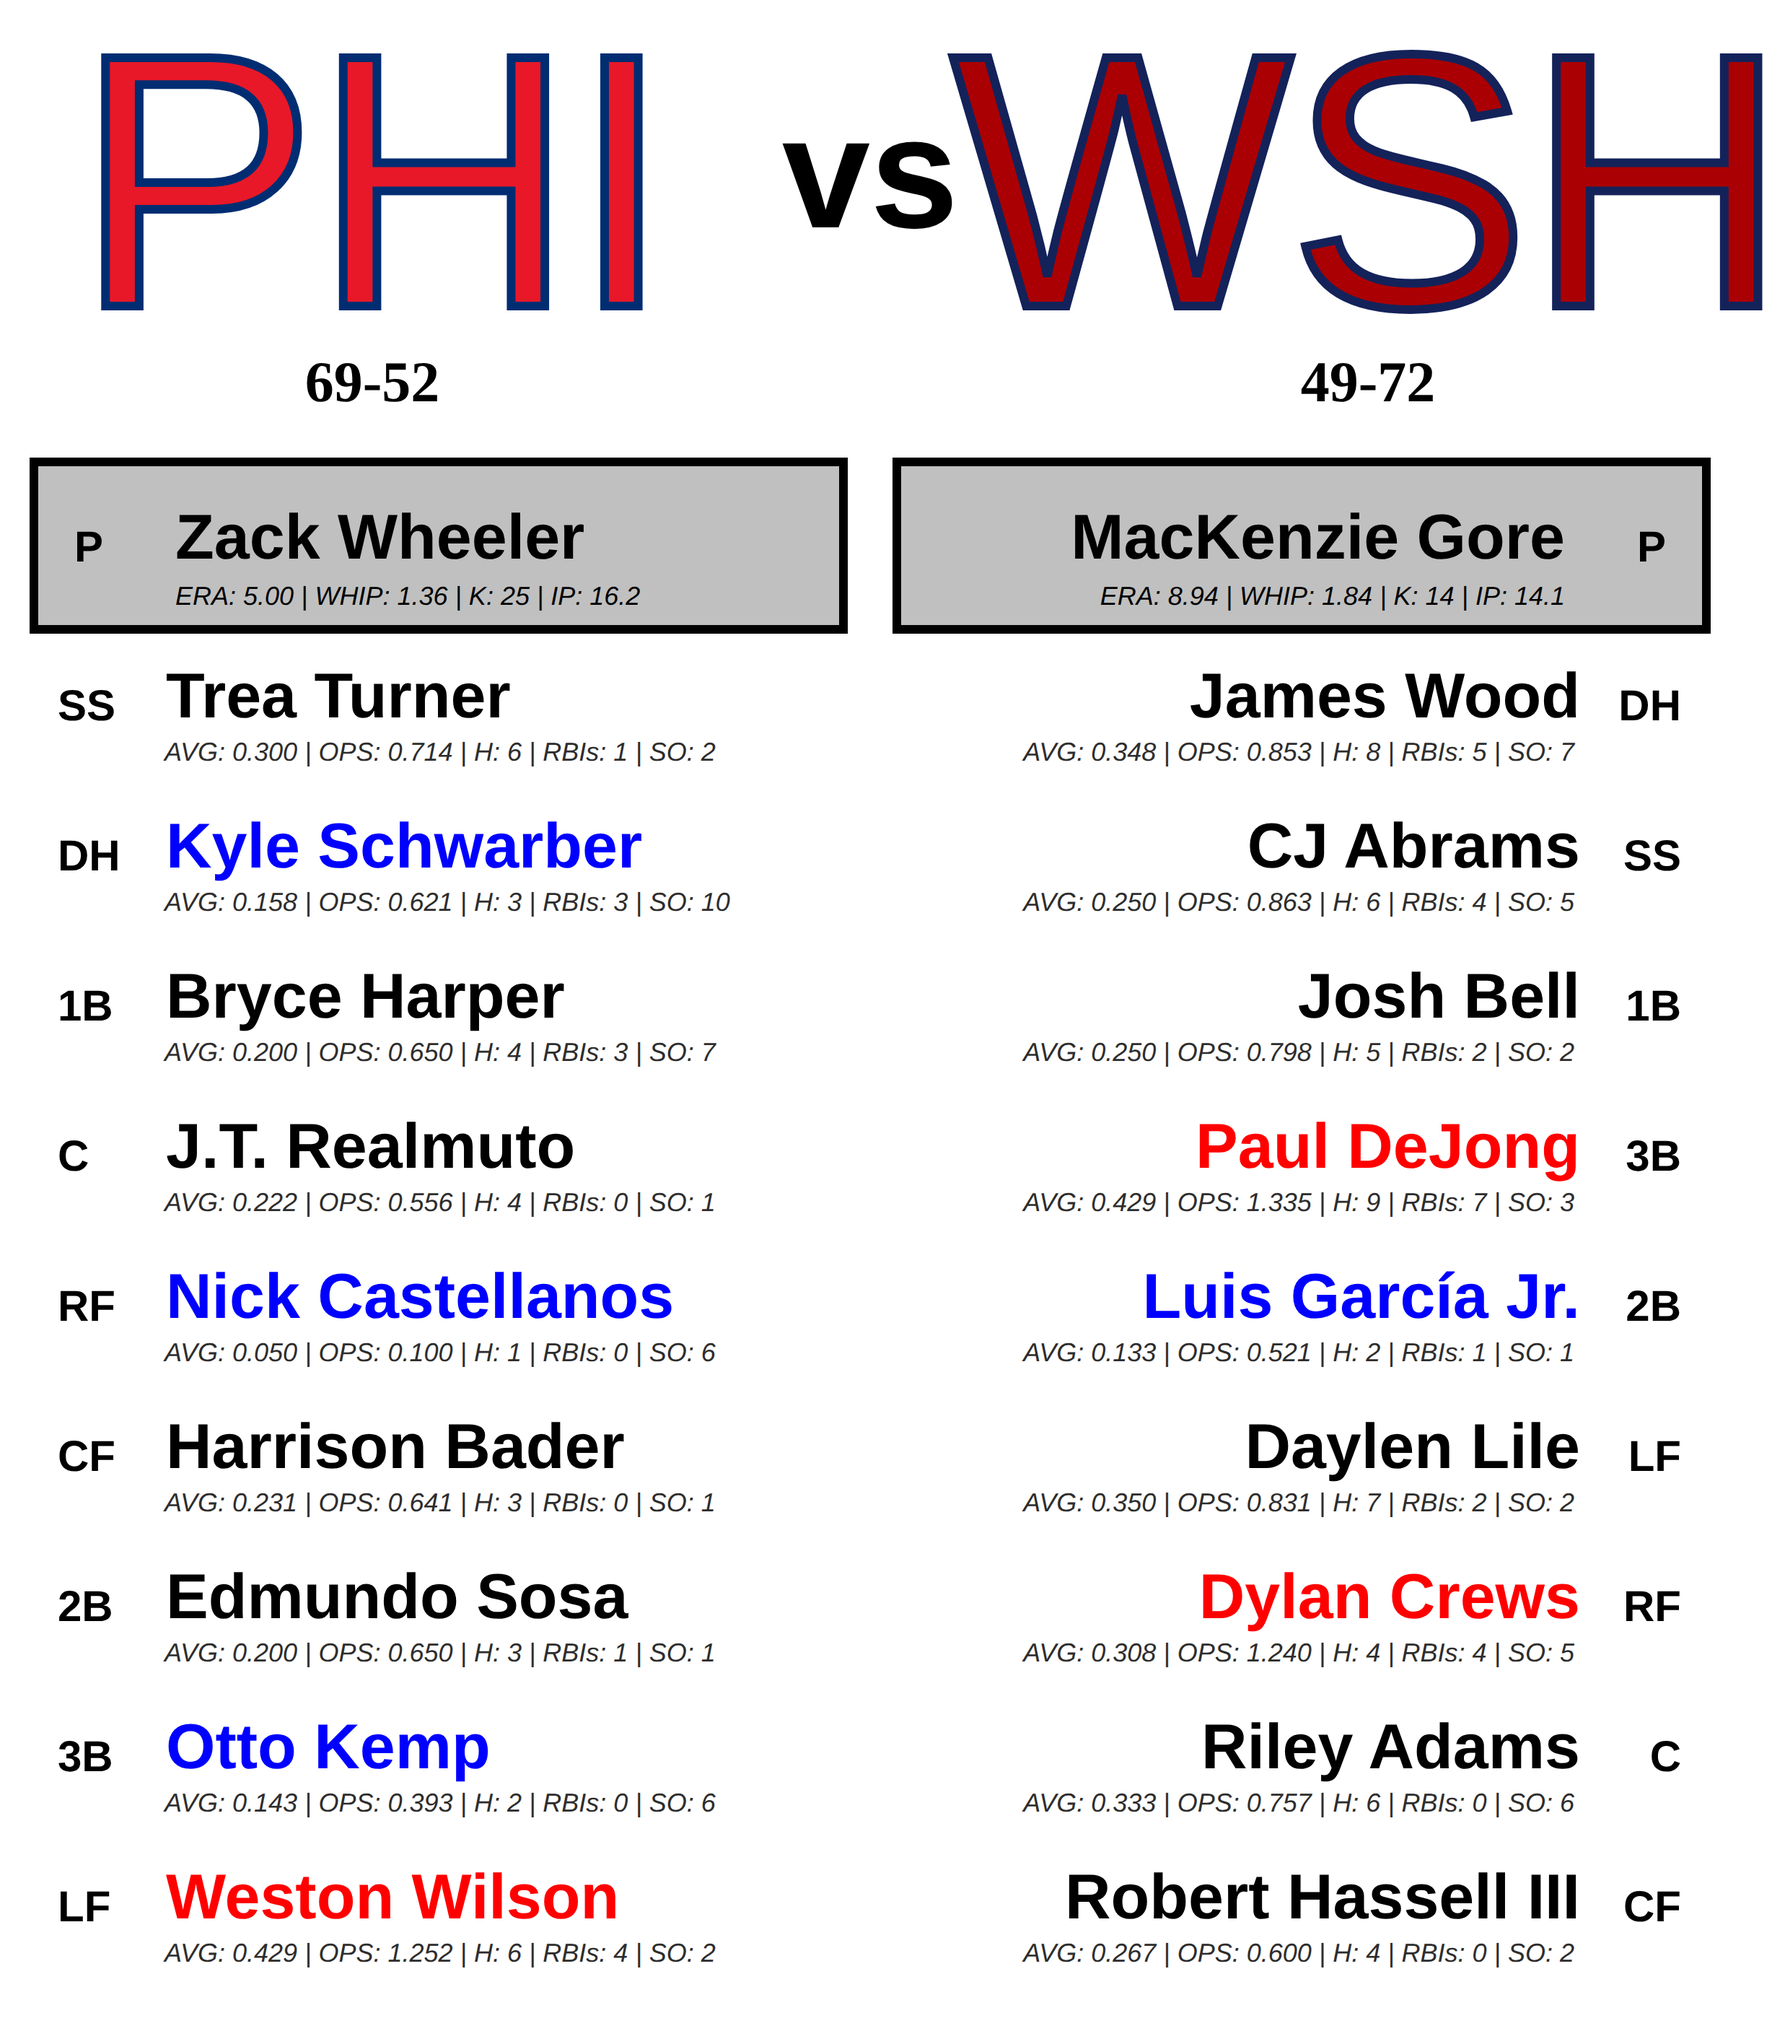
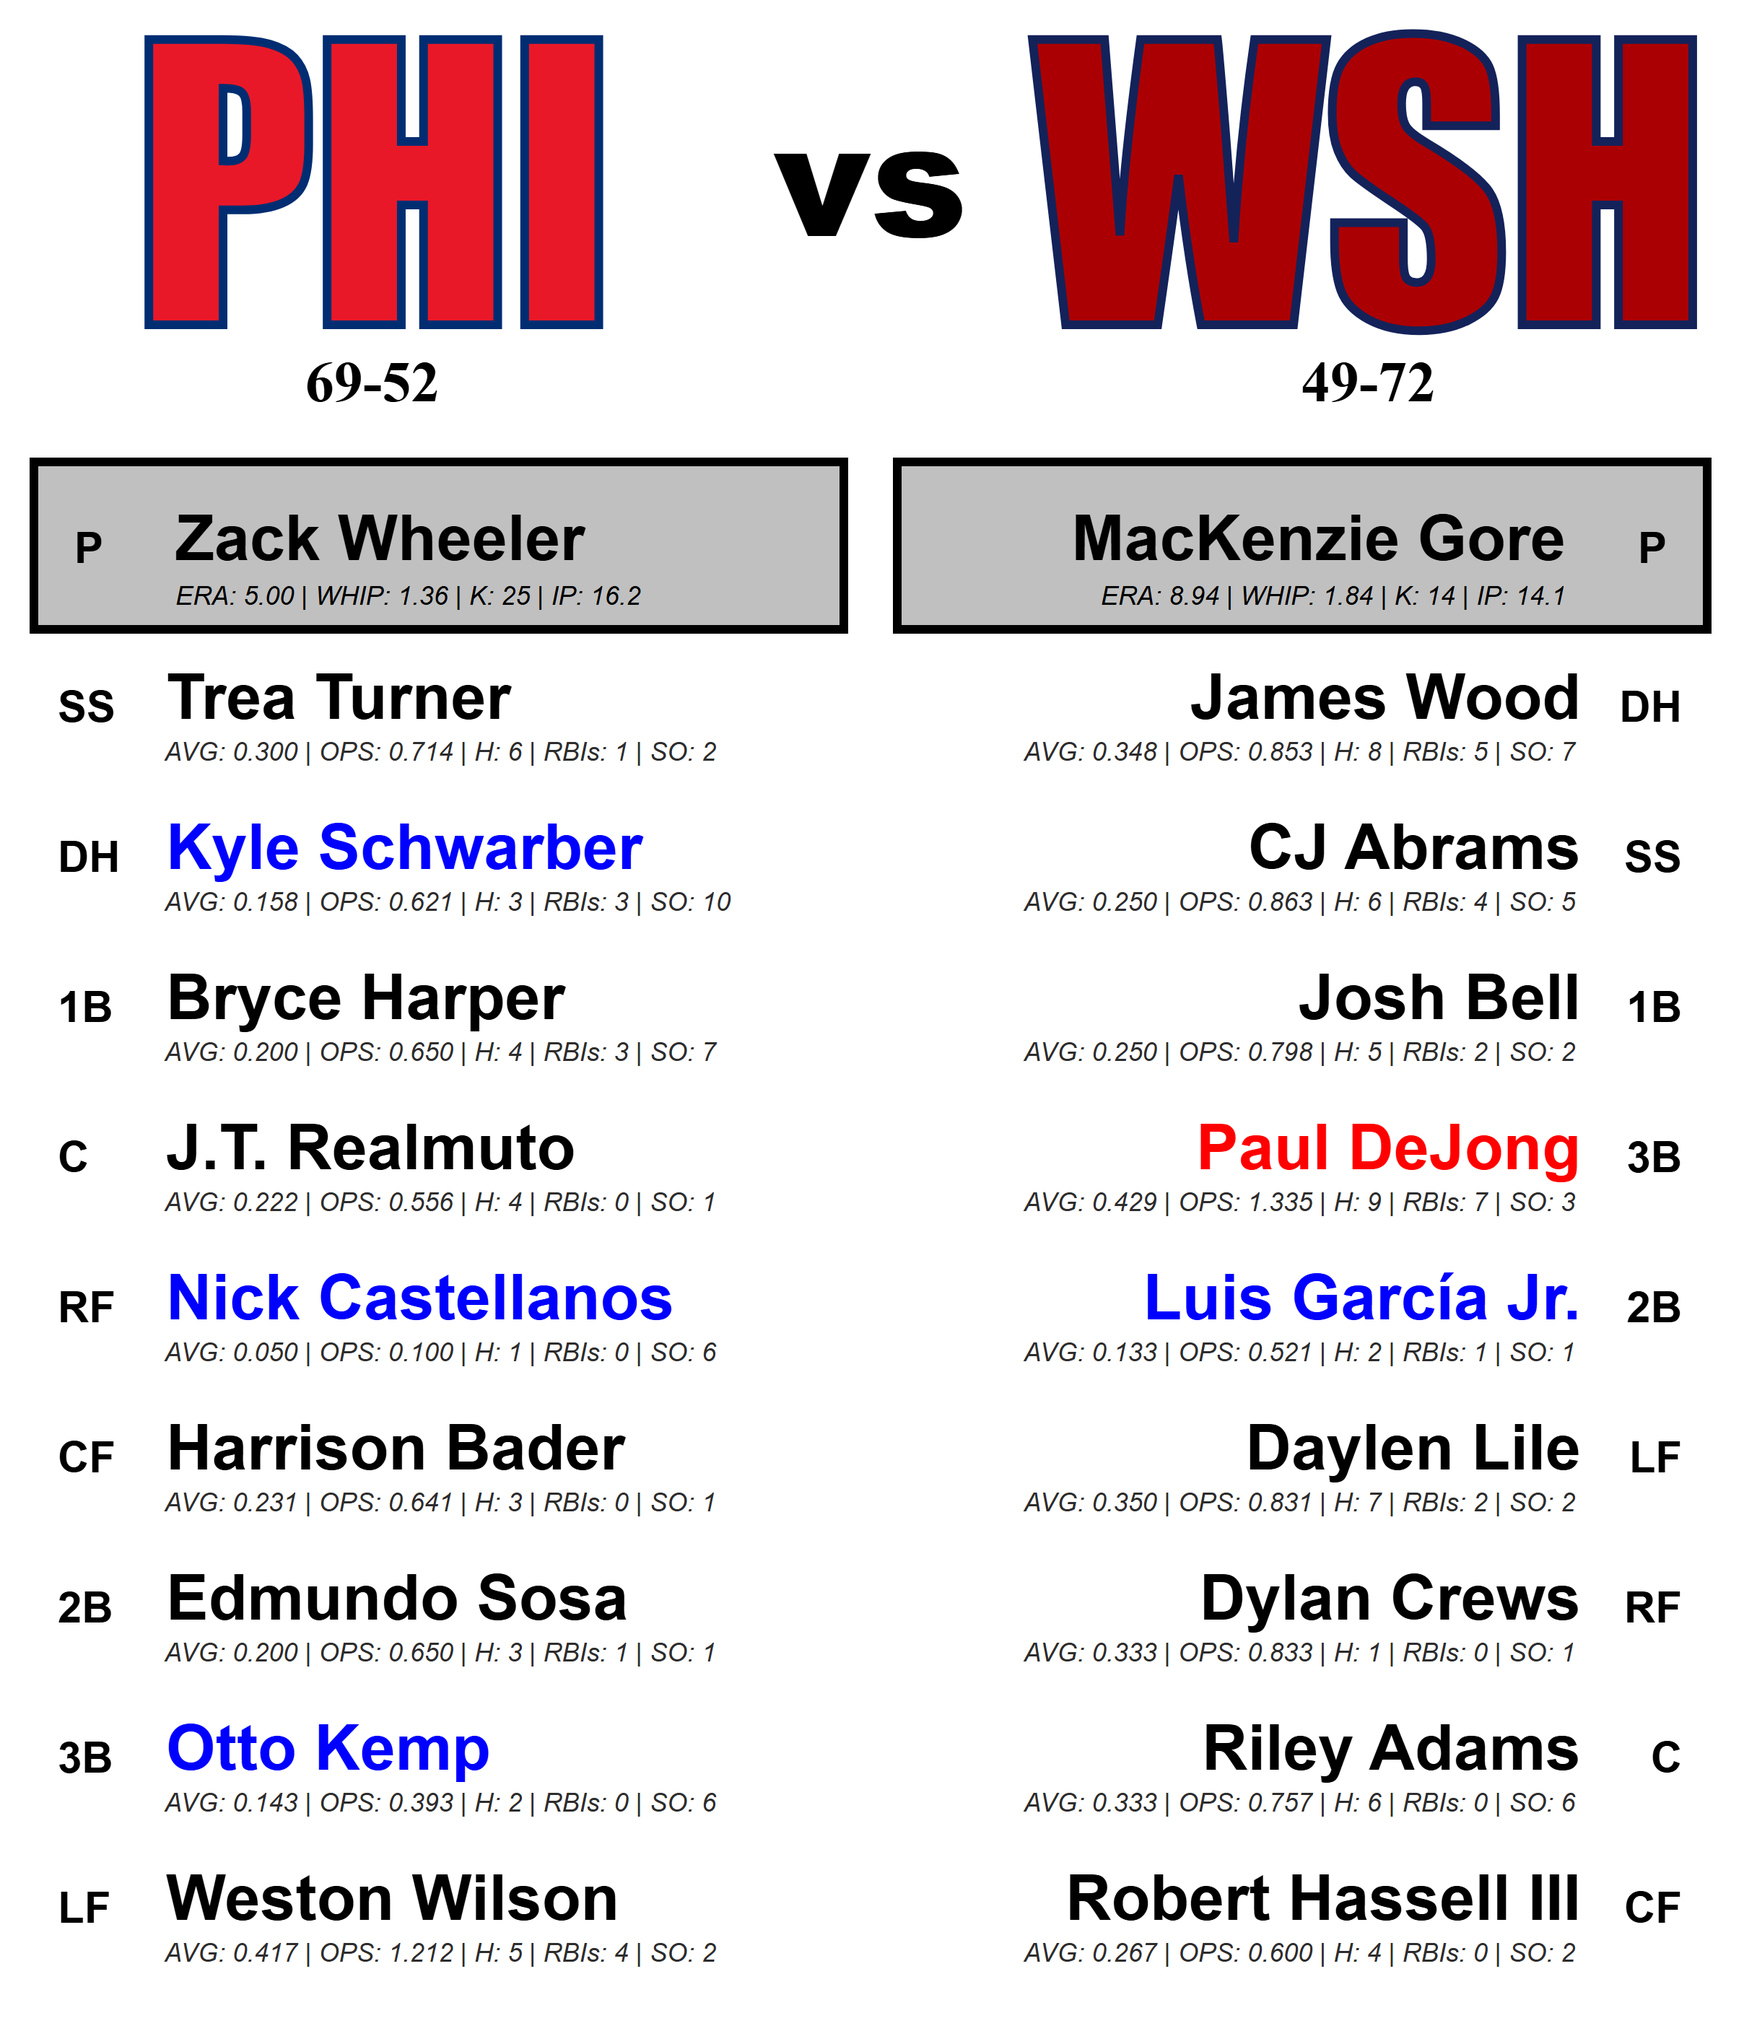
Revamp of OPS

diff --git a/MLB_Matchup/src/players_previous_games.py b/MLB_Matchup/src/players_previous_games.py
@@ -27,9 +27,15 @@ def get_player_last_5_games(player_name, team_id=119, season=2025):
         end_date = yesterday
     )
     
-    last_5_games = []
+    # NEW LOGIC: Look at last 10 games instead of entire season
+    last_10_games = team_schedule[-10:] if len(team_schedule) >= 10 else team_schedule
+    last_10_games = list(reversed(last_10_games))  # Most recent first
     
-    for game in reversed(team_schedule):
+    last_5_games = []
+    games_with_pa = 0  # Count games where player had a Plate Appearance
+    
+    # First pass: Check all 10 games to see how many the player appeared in
+    for game in last_10_games:
         game_id = game['game_id']
         
         try:
@@ -49,37 +55,86 @@ def get_player_last_5_games(player_name, team_id=119, season=2025):
                 
                 batting_stats = player_data.get('stats', {}).get('batting', {})
                 at_bats = batting_stats.get('atBats', 0)
+                walks = batting_stats.get('baseOnBalls', 0)
+                hit_by_pitch = batting_stats.get('hitByPitch', 0)
+                sacrifice_flys = batting_stats.get('sacrificeFlies', 0)
                 
-                if at_bats > 0:
-                    game_info = {
-                        "date": game['game_date'],
-                        "opponent": game['away_name'] if side == 'home' else game['home_name'],
-                        "at_bats": at_bats,
-                        "hits": batting_stats.get('hits', 0),
-                        "rbi": batting_stats.get('rbi', 0),
-                        "hr": batting_stats.get('homeRuns', 0),
-                        "walks": batting_stats.get('baseOnBalls', 0),
-                        "hit_by_pitch": batting_stats.get('hitByPitch', 0),
-                        "sacrifice_flys": batting_stats.get('sacrificeFlies', 0),
-                        "doubles": batting_stats.get('doubles', 0),
-                        "triples": batting_stats.get('triples', 0),
-                        "strikeouts": batting_stats.get('strikeOuts', 0)
-                    }
+                # Calculate Plate Appearances (AB + BB + HBP + SF)
+                plate_appearances = at_bats + walks + hit_by_pitch + sacrifice_flys
+                
+                if plate_appearances > 0:
+                    games_with_pa += 1
                     
-                    # Calculate total bases manually since statsapi doesn't provide it
-                    game_info["total_bases"] = (game_info["hits"] + 
-                                              game_info["doubles"] + 
-                                              (2 * game_info["triples"]) + 
-                                              (3 * game_info["hr"]))
-                    
-                    last_5_games.append(game_info)
-                    
-                    if len(last_5_games) == 5:
-                        break
+                    # Only collect stats for the last 5 games they appeared in
+                    if len(last_5_games) < 5:
+                        game_info = {
+                            "date": game['game_date'],
+                            "opponent": game['away_name'] if side == 'home' else game['home_name'],
+                            "at_bats": at_bats,
+                            "hits": batting_stats.get('hits', 0),
+                            "rbi": batting_stats.get('rbi', 0),
+                            "hr": batting_stats.get('homeRuns', 0),
+                            "walks": walks,
+                            "hit_by_pitch": hit_by_pitch,
+                            "sacrifice_flys": sacrifice_flys,
+                            "doubles": batting_stats.get('doubles', 0),
+                            "triples": batting_stats.get('triples', 0),
+                            "strikeouts": batting_stats.get('strikeOuts', 0),
+                            "plate_appearances": plate_appearances
+                        }
+                        
+                        # Calculate total bases manually since statsapi doesn't provide it
+                        game_info["total_bases"] = (game_info["hits"] + 
+                                                  game_info["doubles"] + 
+                                                  (2 * game_info["triples"]) + 
+                                                  (3 * game_info["hr"]))
+                        
+                        last_5_games.append(game_info)
                     
         except Exception as e:
             print(f"Error processing game {game_id}: {e}")
     
+    # NEW LOGIC: Check if player has sufficient recent activity (5+ games with PAs in last 10)
+    if len(last_10_games) >= 10:
+        if games_with_pa < 5:
+            print(f"⚠ {player_name}: Only {games_with_pa}/10 recent games with PAs - marking as neutral")
+            # Still return stats but indicate insufficient recent activity
+            if not last_5_games:
+                return None
+            
+            # Calculate stats from available games
+            total_hits = total_at_bats = total_rbi = total_walks = 0
+            total_hbp = total_sf = total_bases = total_strikeouts = 0
+            
+            for game in last_5_games:
+                total_hits += game['hits']
+                total_at_bats += game['at_bats']
+                total_rbi += game['rbi']
+                total_walks += game['walks']
+                total_hbp += game['hit_by_pitch']
+                total_sf += game['sacrifice_flys']
+                total_bases += game['total_bases']
+                total_strikeouts += game['strikeouts']
+            
+            avg = total_hits / total_at_bats if total_at_bats > 0 else 0
+            plate_appearances = total_at_bats + total_walks + total_hbp + total_sf
+            obp = (total_hits + total_walks + total_hbp) / plate_appearances if plate_appearances > 0 else 0
+            slg = total_bases / total_at_bats if total_at_bats > 0 else 0
+            ops = obp + slg
+            
+            return {
+                "player_name": player_name,
+                "avg": round(avg, 3),
+                "ops": round(ops, 3),
+                "hits": total_hits,
+                "rbi": total_rbi,
+                "so": total_strikeouts,
+                "games": len(last_5_games),
+                "recent_activity": "insufficient",  # Mark as insufficient for trend calculation
+                "games_with_pa_in_last_10": games_with_pa
+            }
+    
+    # Player meets the requirement or we don't have 10 games to check
     if not last_5_games:
         return None
     
@@ -112,7 +167,9 @@ def get_player_last_5_games(player_name, team_id=119, season=2025):
         "hits": total_hits,
         "rbi": total_rbi,
         "so": total_strikeouts,
-        "games": len(last_5_games)
+        "games": len(last_5_games),
+        "recent_activity": "sufficient",  # Mark as sufficient for trend calculation
+        "games_with_pa_in_last_10": games_with_pa
     }
 
 """

diff --git a/MLB_Matchup/src/MLB_API_Client.py b/MLB_Matchup/src/MLB_API_Client.py
@@ -145,7 +145,7 @@ class MLBAPIClient:
                     'order': idx,
                     'name': name,
                     'position': position,
-                    'recent_stats': "No recent data"
+                    'recent_stats': "AVG: 0.000 / OPS: 0.000 / H: 0 / RBIs: 0 / SO: 0"
                 })
         
         return lineup
@@ -212,13 +212,16 @@ class MLBAPIClient:
                                 print(f"⚠ OPS trend calculation failed for {name}: {e}")
                                 stats_display = f"AVG: {avg:.3f} / OPS: {ops:.3f} / H: {hits} / RBIs: {rbi} / SO: {so}"
                         else:
-                            stats_display = "No recent data"
+                            # Show statline with 0's instead of "No recent data"
+                            stats_display = "AVG: 0.000 / OPS: 0.000 / H: 0 / RBIs: 0 / SO: 0"
                     else:
-                        stats_display = "No recent data"
+                        # Show statline with 0's instead of "No recent data"
+                        stats_display = "AVG: 0.000 / OPS: 0.000 / H: 0 / RBIs: 0 / SO: 0"
                         print(f"⚠ No stats for {name}")
                 except Exception as e:
                     print(f"❌ Error getting stats for {name}: {e}")
-                    stats_display = "No recent data"
+                    # Show statline with 0's instead of "No recent data"
+                    stats_display = "AVG: 0.000 / OPS: 0.000 / H: 0 / RBIs: 0 / SO: 0"
                 
                 lineup.append({
                     'order': idx,
@@ -272,12 +275,15 @@ class MLBAPIClient:
                 if games > 0:
                     stats_display = f"ERA: {era:.2f} WHIP: {whip:.2f} K: {k} IP: {ip}"
                 else:
-                    stats_display = "No recent data"
+                    # Show statline with 0's instead of "No recent data"
+                    stats_display = "ERA: 0.00 WHIP: 0.00 K: 0 IP: 0.0"
             else:
-                stats_display = "No recent data"
+                # Show statline with 0's instead of "No recent data"
+                stats_display = "ERA: 0.00 WHIP: 0.00 K: 0 IP: 0.0"
         except Exception as e:
             print(f"❌ Error getting pitcher stats for {name}: {e}")
-            stats_display = "No recent data"
+            # Show statline with 0's instead of "No recent data"
+            stats_display = "ERA: 0.00 WHIP: 0.00 K: 0 IP: 0.0"
         
         return [{
             'name': name,
@@ -306,8 +312,8 @@ class MLBAPIClient:
         return [{
             'name': name,
             'position': position,
-            'recent_stats': "No recent data",
-            'stats': "No recent data"  # Keep both for compatibility
+            'recent_stats': "ERA: 0.00 WHIP: 0.00 K: 0 IP: 0.0",
+            'stats': "ERA: 0.00 WHIP: 0.00 K: 0 IP: 0.0"  # Keep both for compatibility
         }]
     
 

diff --git a/MLB_Matchup/src/get_stats.py b/MLB_Matchup/src/get_stats.py
@@ -162,6 +162,23 @@ def compare_ops_stats(player_name, team_id=119):
         try:
             from players_previous_games import get_player_last_5_games
             last_5_stats = get_player_last_5_games(player_name, team_id)
+            
+            # NEW LOGIC: Check if player has sufficient recent activity
+            if last_5_stats and last_5_stats.get('recent_activity') == 'insufficient':
+                games_with_pa = last_5_stats.get('games_with_pa_in_last_10', 0)
+                print(f"⚠ {player_name}: Only {games_with_pa}/10 recent games with PAs - marking as neutral but showing stats")
+                # Return the OPS for display purposes, but mark trend as neutral
+                last_5_ops = last_5_stats['ops']
+                return {
+                    "player_name": player_name,
+                    "season_ops": season_ops,
+                    "last_5_games_ops": last_5_ops,
+                    "ops_difference": None,  # Can't calculate difference due to insufficient data
+                    "trend": "neutral",
+                    "reason": "insufficient_recent_activity",
+                    "games_with_pa_in_last_10": games_with_pa
+                }
+            
             last_5_ops = last_5_stats['ops'] if last_5_stats else None
         except Exception as e:
             print(f"Error getting last 5 games stats: {e}")
@@ -233,10 +250,18 @@ def get_lineup_ops_summary(lineup_data, team_id=119):
     for player_name, comparison in lineup_comparison.items():
         if comparison['trend'] == 'hot':
             hot_players.append(player_name)
+            print(f"🔥 {player_name}: HOT trend")
         elif comparison['trend'] == 'cold':
             cold_players.append(player_name)
+            print(f"❄ {player_name}: COLD trend")
         else:
             neutral_players.append(player_name)
+            reason = comparison.get('reason', 'no_trend')
+            if reason == 'insufficient_recent_activity':
+                games_with_pa = comparison.get('games_with_pa_in_last_10', 0)
+                print(f"⚪ {player_name}: NEUTRAL (only {games_with_pa}/10 recent games with PAs)")
+            else:
+                print(f"⚪ {player_name}: NEUTRAL (no significant trend)")
         
         # Sum up OPS values for averages
         if comparison['season_ops'] is not None and comparison['last_5_games_ops'] is not None:
